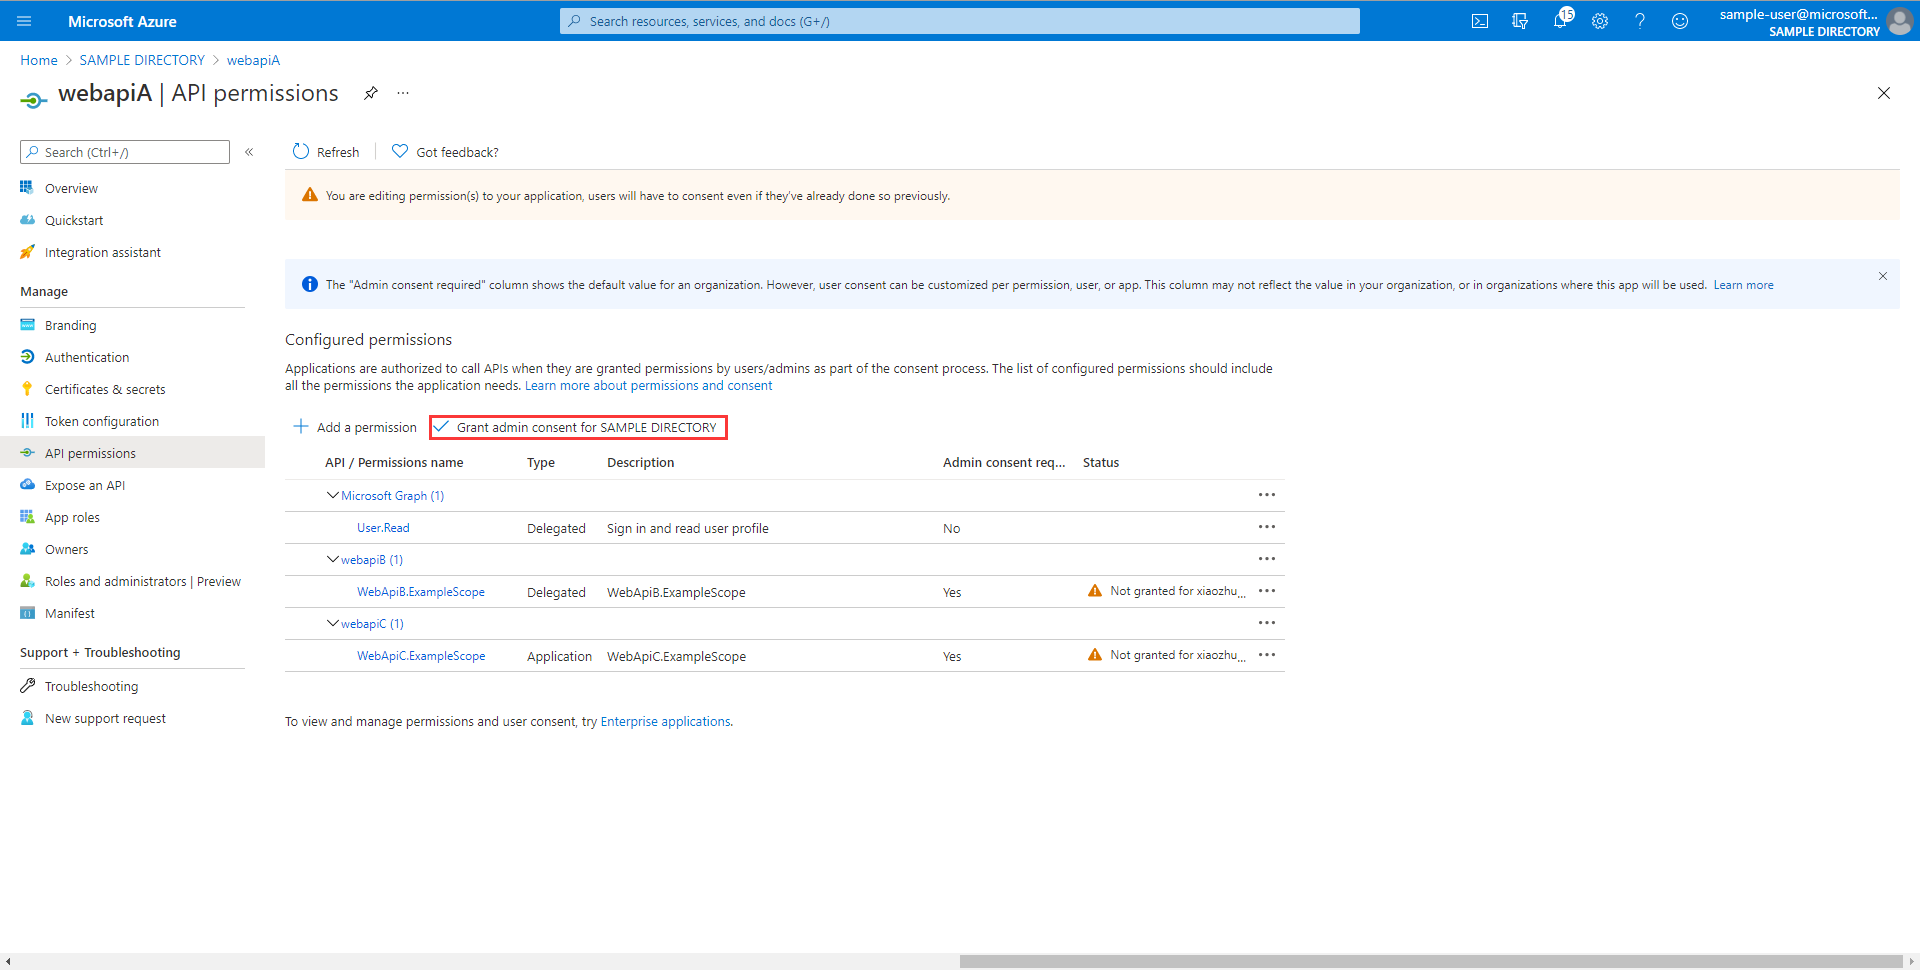
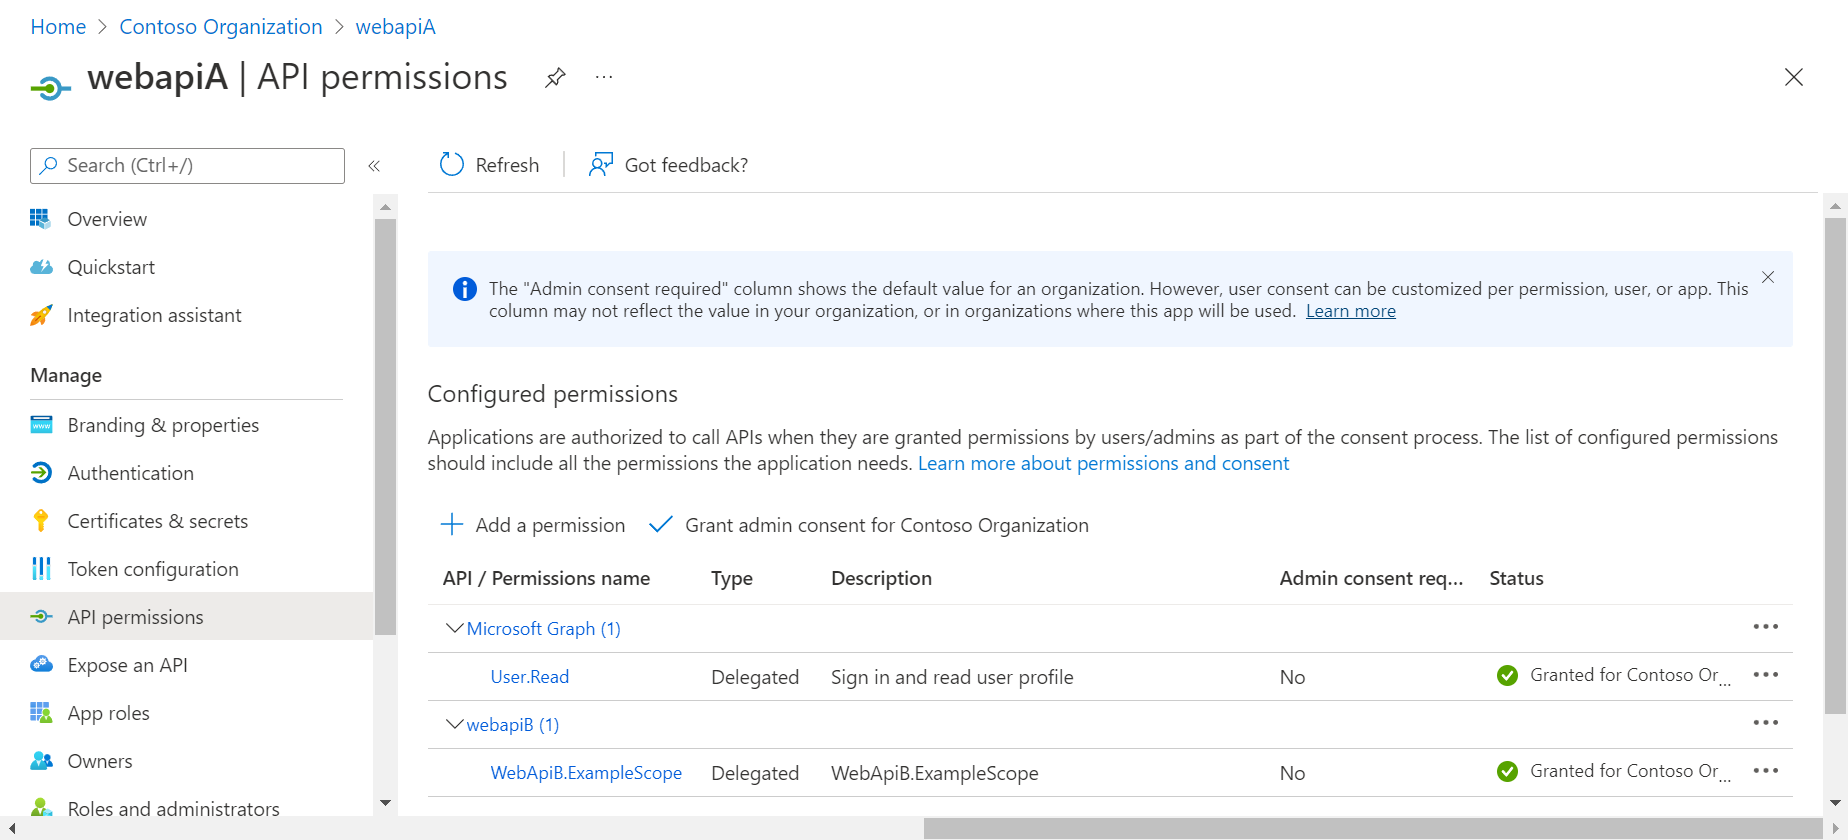
change for web-client-access-resource-server

diff --git a/aad/spring-cloud-azure-starter-active-directory/web-client-access-resource-server/aad-resource-server-obo/src/main/java/com/azure/spring/sample/aad/controller/SampleController.java b/aad/spring-cloud-azure-starter-active-directory/web-client-access-resource-server/aad-resource-server-obo/src/main/java/com/azure/spring/sample/aad/controller/SampleController.java
@@ -30,9 +30,6 @@ public class SampleController {
     private static final String GRAPH_ME_ENDPOINT = "https://graph.microsoft.com/v1.0/me";
 
     private static final String CUSTOM_LOCAL_FILE_ENDPOINT = "http://localhost:8082/webapiB";
-
-    private static final String CUSTOM_LOCAL_READ_ENDPOINT = "http://localhost:8083/webapiC";
-
     @Autowired
     private WebClient webClient;
 
@@ -124,24 +121,4 @@ public class SampleController {
         }
     }
 
-    /**
-     * Access to protected data through client credential flow. The access token is obtained by webclient, or
-     * <p>@RegisteredOAuth2AuthorizedClient("webapiC")</p>. In the end, these two approaches will be executed to
-     * DefaultOAuth2AuthorizedClientManager#authorize method, get the access token.
-     *
-     * @return Respond to protected data.
-     */
-    @PreAuthorize("hasAuthority('SCOPE_Obo.WebApiA.ExampleScope')")
-    @GetMapping("webapiA/webapiC")
-    public String callClientCredential() {
-        String body = webClient
-            .get()
-            .uri(CUSTOM_LOCAL_READ_ENDPOINT)
-            .attributes(clientRegistrationId("webapiC"))
-            .retrieve()
-            .bodyToMono(String.class)
-            .block();
-        LOGGER.info("Response from Client Credential: {}", body);
-        return "client Credential response " + (null != body ? "success." : "failed.");
-    }
 }

diff --git a/aad/spring-cloud-azure-starter-active-directory/web-client-access-resource-server/aad-resource-server/src/main/java/com/azure/spring/sample/aad/controller/HomeController.java b/aad/spring-cloud-azure-starter-active-directory/web-client-access-resource-server/aad-resource-server/src/main/java/com/azure/spring/sample/aad/controller/HomeController.java
@@ -28,7 +28,6 @@ public class HomeController {
     }
 
     @GetMapping("/webapiB/clientCredential")
-    @PreAuthorize("hasAuthority('APPROLE_WebApiB.ClientCredential.ExampleScope')")
     @ResponseBody
     public String clientCredential() {
         return "Response from webApiB: clientCredential";

diff --git a/aad/spring-cloud-azure-starter-active-directory/web-client-access-resource-server/aad-resource-server-obo/README.md b/aad/spring-cloud-azure-starter-active-directory/web-client-access-resource-server/aad-resource-server-obo/README.md
@@ -30,9 +30,7 @@ We will prepare two applications to demonstrate the dependent calls of resources
 ![API Permissions](docs/image-resource-server-obo-add-scope.png)
 2. Select **API permissions** > **Add a permission** > **My APIs**, select ***Web API B*** application name. ![Select MyAPIs](docs/image-select-myapis.png)
 3. **Delegated permissions** is selected by default, Select **WebApiB.ExampleScope** permission, select **Add permission** to complete the process.![Add Permissions](docs/image-add-permissions.png)
-4. Same as the second step above, select ***Web API C*** Application Name.
-5. Manually select **Application Permissions**, Select **WebApiC.ExampleScope** permission, select **Add permission** to complete the process.![Select MyAPIs](docs/image-select-application-permission.png)
-6. Grant admin consent for ***Web API B*** permissions and  ***Web API C*** permissions.![API Permissions](docs/image-add-grant-admin-consent.png)
+4. Grant admin consent for ***Web API B*** permissions and **Microsoft Graph** permissions.![API Permissions](docs/image-add-grant-admin-consent.png)
 
 See [OAuth 2.0 On-Behalf-Of flow] for more information about OBO.
 
@@ -58,10 +56,6 @@ spring:
             authorization-grant-type: on_behalf_of
             scopes:
               - ${WEB_API_B_APP_ID_URL}/WebApiB.ExampleScope
-          webapiC:
-            authorization-grant-type: client_credentials
-            scopes:
-              - ${WEB_API_C_APP_ID_URL}/.default
 ```
 
 ### Run with Maven
@@ -74,6 +68,7 @@ mvn spring-boot:run
 First, you need to obtain an access token to access Web API A.
 - Web API A will call Graph resource. 
 ```shell script
+# use Header scope '<app-id-uri>/Obo.Graph.Read' to get access-token 
 # Replace to valid access token.
 curl localhost:8081/call-graph -H "Authorization: Bearer <replace-the-access-token>"
 ```
@@ -85,38 +80,29 @@ Graph response success.
 - Web API A will call Graph resource through `OAuth2AuthorizedClientRepository`. 
 
 ```shell script
+# same access-token with above
 # Replace to valid access token.
 curl localhost:8081/call-graph-with-repository -H "Authorization: Bearer <replace-the-access-token>"
 ```
 
 Verify response:
 ```text
-Graph response success.
+Graph response failed.
 ```
 
 - Web API A will call Custom(Web API B) resources. 
 
 ```shell script
+# use Header scope '<app-id-uri>/Obo.WebApiA.ExampleScope' to get access-token 
 # Replace to valid access token.
 curl localhost:8081/webapiA/webapiB -H "Authorization: Bearer <replace-the-access-token>"
 ```
 
 Verify response:
 ```text
-Custom response success.
+webapiB response success.
 ```
 
-- Web API A will call Custom(Web API C) resources through Client Credential Flow.
-
-```shell script
-# Replace to valid access token.
-curl localhost:8081/webapiA/webapiC -H "Authorization: Bearer <replace-the-access-token>"
-```
-
-Verify response:
-```text
-client Credential response success.
-```
 
 ## Troubleshooting
 

diff --git a/aad/spring-cloud-azure-starter-active-directory/web-client-access-resource-server/aad-resource-server/README.md b/aad/spring-cloud-azure-starter-active-directory/web-client-access-resource-server/aad-resource-server/README.md
@@ -21,6 +21,7 @@ This sample illustrates how to protect a Java web API by restricting access to i
 1. Under **Manage** In the same tenant, select **App registrations** -> **New registration**.![Protal manage](docs/image-protal-manage.png "Protal manage")
 1. The registered application name is filled into `webapiB`(For better distinguish between [Resource Server] and [Resource Server Obo], this application is named **webapiB**), select **Accounts in this organizational directory only**, click the **register** button.![Register a web api](docs/image-register-a-web-api.png "Register a web api")
 1. Under **webapiB** application, select **Certificates & secrets** -> **new client secret**, expires select **Never**, click the **add** button, remember to save the secrets here and use them later.![Creat secrets](docs/image-creat-secrets-api.png "Creat secrets")
+1. Under **webapiB** application, select **API permissions** -> **Grant admin consent for ...**, then choose **Yes** for save.
 1. Under **webapiB** application, select **Expose an API** -> **Add a scope**, Use the default Application ID URI, click **Save and continue** button.![Set application id url](docs/image-set-application-id-url.png "Set application id url")
 1. Wait the page refresh finished. Then set the **Scope name** to `WebApiB.ExampleScope`.![Add a scope](docs/image-add-a-scope.png "Add a scope")
 1. Finally, the api exposed in `webapiB`.![Finally, the API exposed in webAPI](docs/image-expose-api.png "Finally, the API exposed in webAPI")
@@ -82,8 +83,16 @@ Authorization: Bearer eyJ0eXAiO ... 0X2tnSQLEANnSPHY0gKcgw
 ```
 
 ### Check the authentication and authorization
-1. Access `http://localhost:<your-Configured-server-port>/webapiB` link: success.
-2. Access `http://localhost:<your-Configured-server-port>/user` link: fail with error message.
+
+```shell script
+# use Header scope '<app-id-uri>/Obo.WebApiB.ExampleScope' to get access-token 
+curl localhost:8082/webapiB -H "Authorization: Bearer <replace-the-access-token>"
+Response from webApiB.
+
+# use Header scope 'User.Read' to get access-token 
+curl localhost:8082/user -H "Authorization: Bearer <replace-the-access-token>"
+# fail with error message:401
+```
 
 ## Troubleshooting
 

diff --git a/aad/spring-cloud-azure-starter-active-directory/web-client-access-resource-server/aad-web-application/README.md b/aad/spring-cloud-azure-starter-active-directory/web-client-access-resource-server/aad-web-application/README.md
@@ -117,11 +117,12 @@ mvn spring-boot:run -Dspring-boot.run.profiles=default,conditional-access
 1. Access http://localhost:8080
 2. Login
 3. Access `Group1 Message` link: success
-4. Access `Group2 Message` link: fail with forbidden error message
-5. Access `Graph Client` link: access token for `Microsoft Graph` will be acquired, and the content of customized **OAuth2AuthorizedClient** instance for `Microsoft Graph` resource will be displayed.
-6. Access `Office Client` link: access token for `Office 365 Management APIs` will be acquired, the content of customized **OAuth2AuthorizedClient** instance for `Office 365 Management APIs` resource will be displayed.
+4. Access `Group2 Message` link: fail with forbidden error message 
+5. Access `Admin Message` link: fail with forbidden error message
+6. Access `Graph Client` link: access token for `Microsoft Graph` will be acquired, and the content of customized **OAuth2AuthorizedClient** instance for `Microsoft Graph` resource will be displayed.
 7. Access `Arm Client` link: page will be redirected to Consent page for on-demand authorization of `user_impersonation` permission in `Azure Service Management` resource. Clicking on `Consent`, access token for `Azure Service Management` will be acquired, the content of customized **OAuth2AuthorizedClient** instance for `Azure Service Management` resource will be displayed.
 8. Access `Obo Client` link: access token for `webapiA` will be acquired, the success or failure of accessing `webapiA` will be displayed.
+9. Access `Client Credential Client` link: success.
 
 ## Troubleshooting
 ### If registered application is multi-tenanted, how to run this sample?
